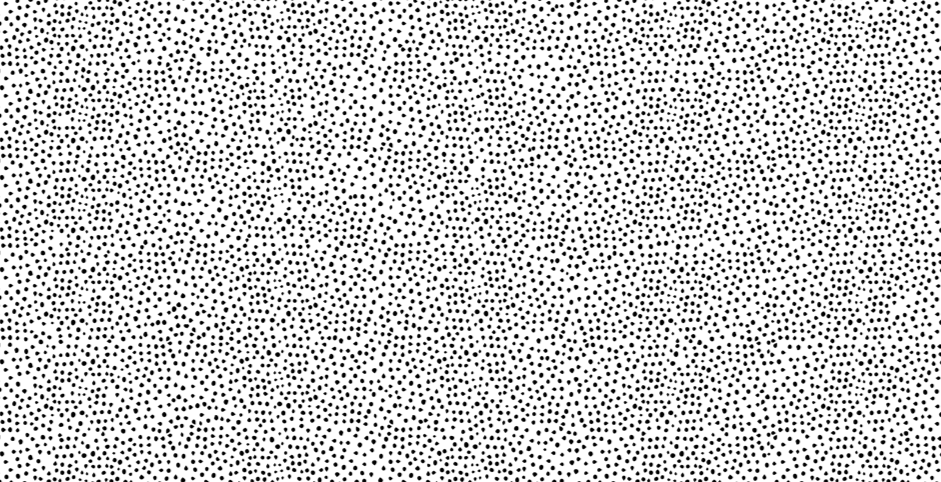
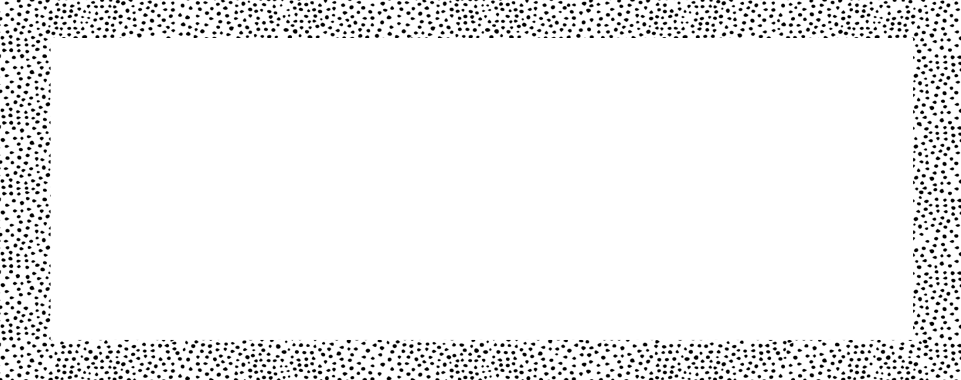
dot image

diff --git a/assets/scss/theme.css b/assets/scss/theme.css
@@ -9772,7 +9772,7 @@ body#checkout #hook-display-after-carrier>[class^=col].links .row>[class^=col] {
 }
 
 .custom-text {
-    background: #fff url(../img/dots-background.png) repeat 50%;
+    background: #fff url(../img/dots-background.png);
     border-radius: 2px;
     margin-bottom: 1.5rem;
     text-align: center;
